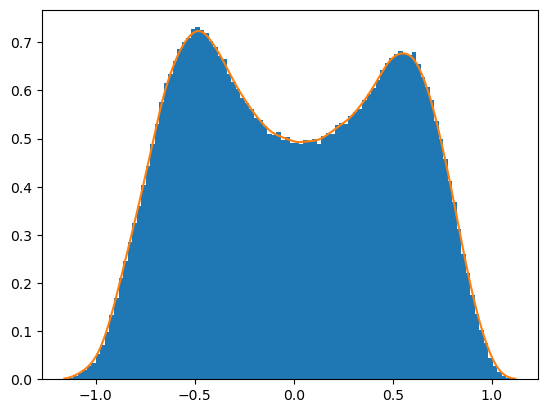
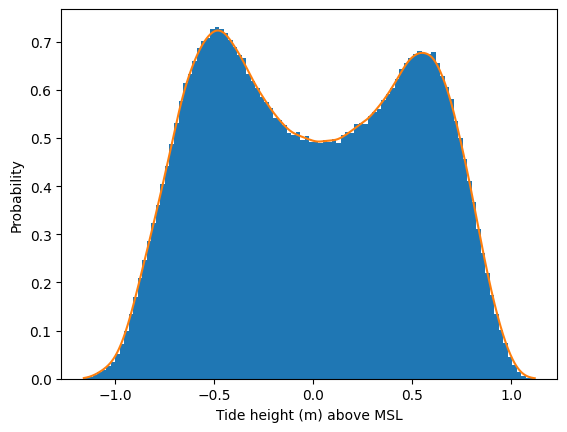
More distribution estimators

diff --git a/gp_opt/Optimizer.py b/gp_opt/Optimizer.py
@@ -1,3 +1,5 @@
+import makerun
+
 class Optimizer:
 
     def __init__(self, Acq, Model):
@@ -8,15 +10,16 @@ class Optimizer:
         converged = False
         while not converged:
             job_id = 0
-            next_point = self.Acq_func.get_next_point()
-            
-            # Run GeoClaw on next_point (calculate all GC params from next_point) (Either: Acq func has convergence criteria or max computation time)
-            # Extract time series for all inside gauges with some resolution (HYP: resolution) 
-            # Superimpose tide at all time steps and all gauges (distances)
+            x_next, phi_next = self.Acq.get_next_point()
+
+            makerun.make_all(job_id, x_next, phi_next)
+            Job = makerun.GC_job(job_id, x_next, phi_next)
+            Job.run()
+            # Extract time series from outside gauges for SR (res)
+            # Superimpose tide at all time steps and all gauges (distances), both inside and outside
             # Perturb tide stage and superimpose to get points around tide stage (HYP: max perturb, perturb resolution, added error?)
-            # Get surge_peak and damage for all points
-            # Extract time series for all outside gauges with SR resolution
-            # Superimpose tide and perturbed tides on SR time series
+            # Get surge_peak for all points. Calculate volume through simple topo. Recalculate height from surfaceV func. Get damage
+            # 
             # Run SR on same points for reference? (Measures error against ground truth, and error aginst perturbed solutions), maybe correct for error?
             # Perturb x on all SR points. Run SR. (HYP: max perturb, resolution)
             # Should have new points: GC_true for all gauges, GC_perturbed_tide for all gauges, SR_perturbed_x for all GC_perturbed and GC_true

diff --git a/gp_opt/main_gp_opt.py b/gp_opt/main_gp_opt.py
@@ -1,10 +1,11 @@
-from scipy.stats import uniform
+from scipy.stats import uniform, poisson
 
 import Acquisition
 import Optimizer
 
 from fun_opt import generate_GP_SR, generate_GP_GC
 from estimate_tide_distr import estimate_tide_distr
+from estimate_v_distr import estimate_v_distr
 from Model import Model
 from Tide_class import Tide
 
@@ -21,20 +22,38 @@ FULL FLOW SHOULD BE:
 8. Optimize
 """
 
-
+# Generate initial GP for GeoClaw and SR
 GP_GC = generate_GP_GC()  # TODO write func and calibrate hyperparams
 GP_SR = generate_GP_SR()  # TODO calibrate hyperparams
 
+# tide
 Tide = Tide()
 tide_ker, tide_bounds = estimate_tide_distr(Tide)
 
-
+# X - wall height 
 X = uniform(a=1.9, b=6)  # uniform prior on X (wall height), lb=1.9 m (lowest shore height), ub=6m (arbitrary, from previous test runs)
 X_bounds = (1.9, 6)
 
-variables = {'zeta': {'pdf': tide_ker.pdf, 'bounds': tide_bounds, 'initial': 0}, 'x': {'pdf': X.pdf, 'bounds': X_bounds, 'initial': 2}}  # TODO add other vars
-phi_keys = ['zeta']  # list of phi keys in variables
+# v - velocity
+v_ker, v_bounds = estimate_v_distr()
 
+# N - number of storms
+modelling_period = 80  # number of years to model
+frequency = 0.7  # storm/year. 150km range, all intensities
+N = poisson(modelling_period * frequency)
+N_bounds = (0, None)
+
+
+# Combine all variables
+variables = {
+	'zeta': {'pdf': tide_ker.pdf, 'bounds': tide_bounds, 'initial': 0}, 
+	'x': {'pdf': X.pdf, 'bounds': X_bounds, 'initial': 2}, 
+	'v': {'pdf': v_ker.pdf, 'bounds': v_bounds, 'initial': 35},
+	'N': {'pmf': N.pmf, 'bounds': N_bounds, 'initial': None}
+	}  # TODO add other vars
+phi_keys = ['zeta', 'v']  # list of phi keys in variables
+
+# Initialize Model
 M = Model(GP_SR, GP_GC, variables, phi_keys)
 
 beta_x = Acquisition.Beta_const(0.3)  # TODO Determine value and func

diff --git a/gp_opt/temp.py b/gp_opt/temp.py
@@ -1,0 +1,35 @@
+import os
+import glob
+import numpy as np
+import pandas as pd
+from matplotlib import pyplot as plt
+from scipy.stats import gaussian_kde
+
+
+def estimate_alpha_distr():
+    path = os.path.join('input', 'CHAZ')
+    points = []
+    for file in glob.glob(os.path.join(path, "CHAZ*.csv")):
+        df = pd.read_csv(file)
+        points.extend(df["trdir"].dropna().values.tolist())
+
+    ker = gaussian_kde(points)
+
+    bounds = (min(points), max(points))
+
+    # PLOT
+    eval_points = np.linspace(bounds[0], bounds[1], 1000)
+    prob = ker.pdf(eval_points)
+    plt.hist(points, bins=8, density=True)
+    plt.plot(eval_points, prob)
+    plt.xlabel(r'Heading (degrees)')
+    plt.ylabel('Probability')
+
+    #plt.savefig("Output/heading_distr.png", transparent=True, bbox_inches='tight')
+
+    plt.show()
+
+    return ker, bounds
+
+
+estimate_alpha_distr()

diff --git a/gp_opt/estimate_tide_distr.py b/gp_opt/estimate_tide_distr.py
@@ -1,5 +1,6 @@
-# from matplotlib import pyplot as plt
+from matplotlib import pyplot as plt
 from scipy.stats import gaussian_kde
+from Tide_class import Tide
 import numpy as np
 
 
@@ -26,6 +27,10 @@ def estimate_tide_distr(Tide):
     # y = ker.pdf(eval_points)
     # plt.hist(points, bins=100, density=True)
     # plt.plot(eval_points, y)
+
+    # plt.xlabel(r'Tide height (m) above MSL')
+    # plt.ylabel(r'Probability')
+    # #plt.show()
 
     # plt.savefig("Output/tide_distr.png", transparent=True, bbox_inches='tight')
 

diff --git a/gp_opt/estimate_v_distr.py b/gp_opt/estimate_v_distr.py
@@ -1,5 +1,6 @@
 import os
 import glob
+import numpy as np
 import pandas as pd
 from matplotlib import pyplot as plt
 from scipy.stats import gaussian_kde
@@ -21,6 +22,8 @@ def estimate_v_distr():
     # prob = ker.pdf(eval_points)
     # plt.hist(points, bins=100, density=True)
     # plt.plot(eval_points, prob)
+    # plt.xlabel(r'Storm intensity (kt)')
+    # plt.ylabel('Probability')
 
     # plt.savefig("Output/v_distr.png", transparent=True, bbox_inches='tight')
 
